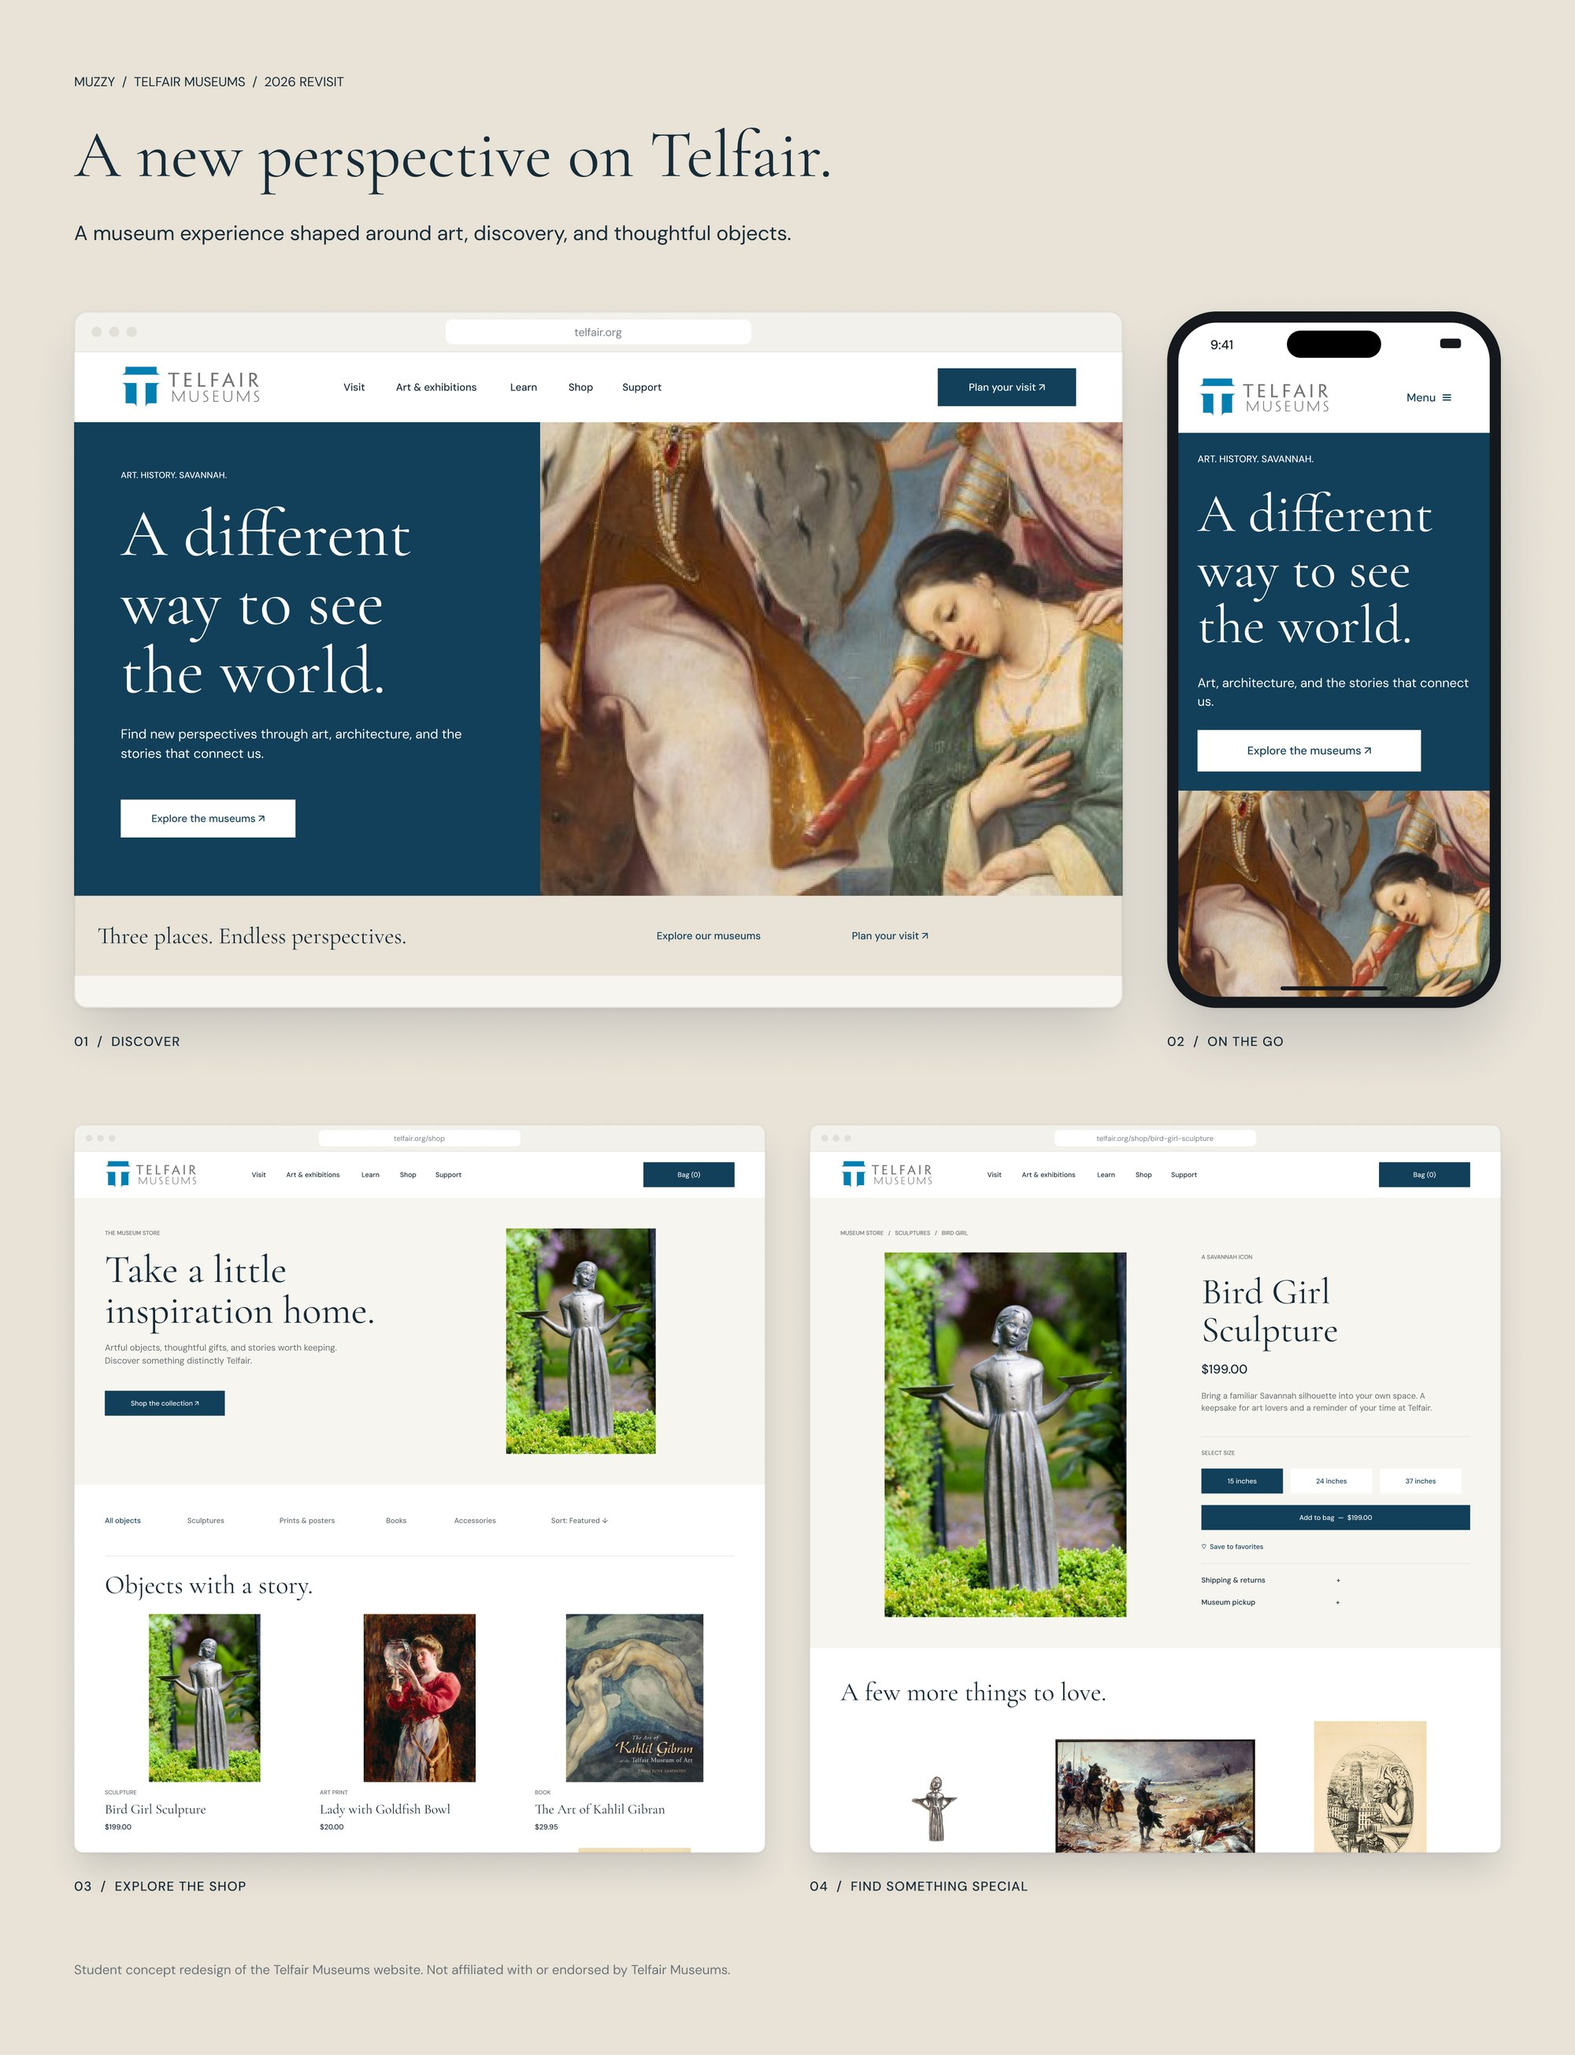
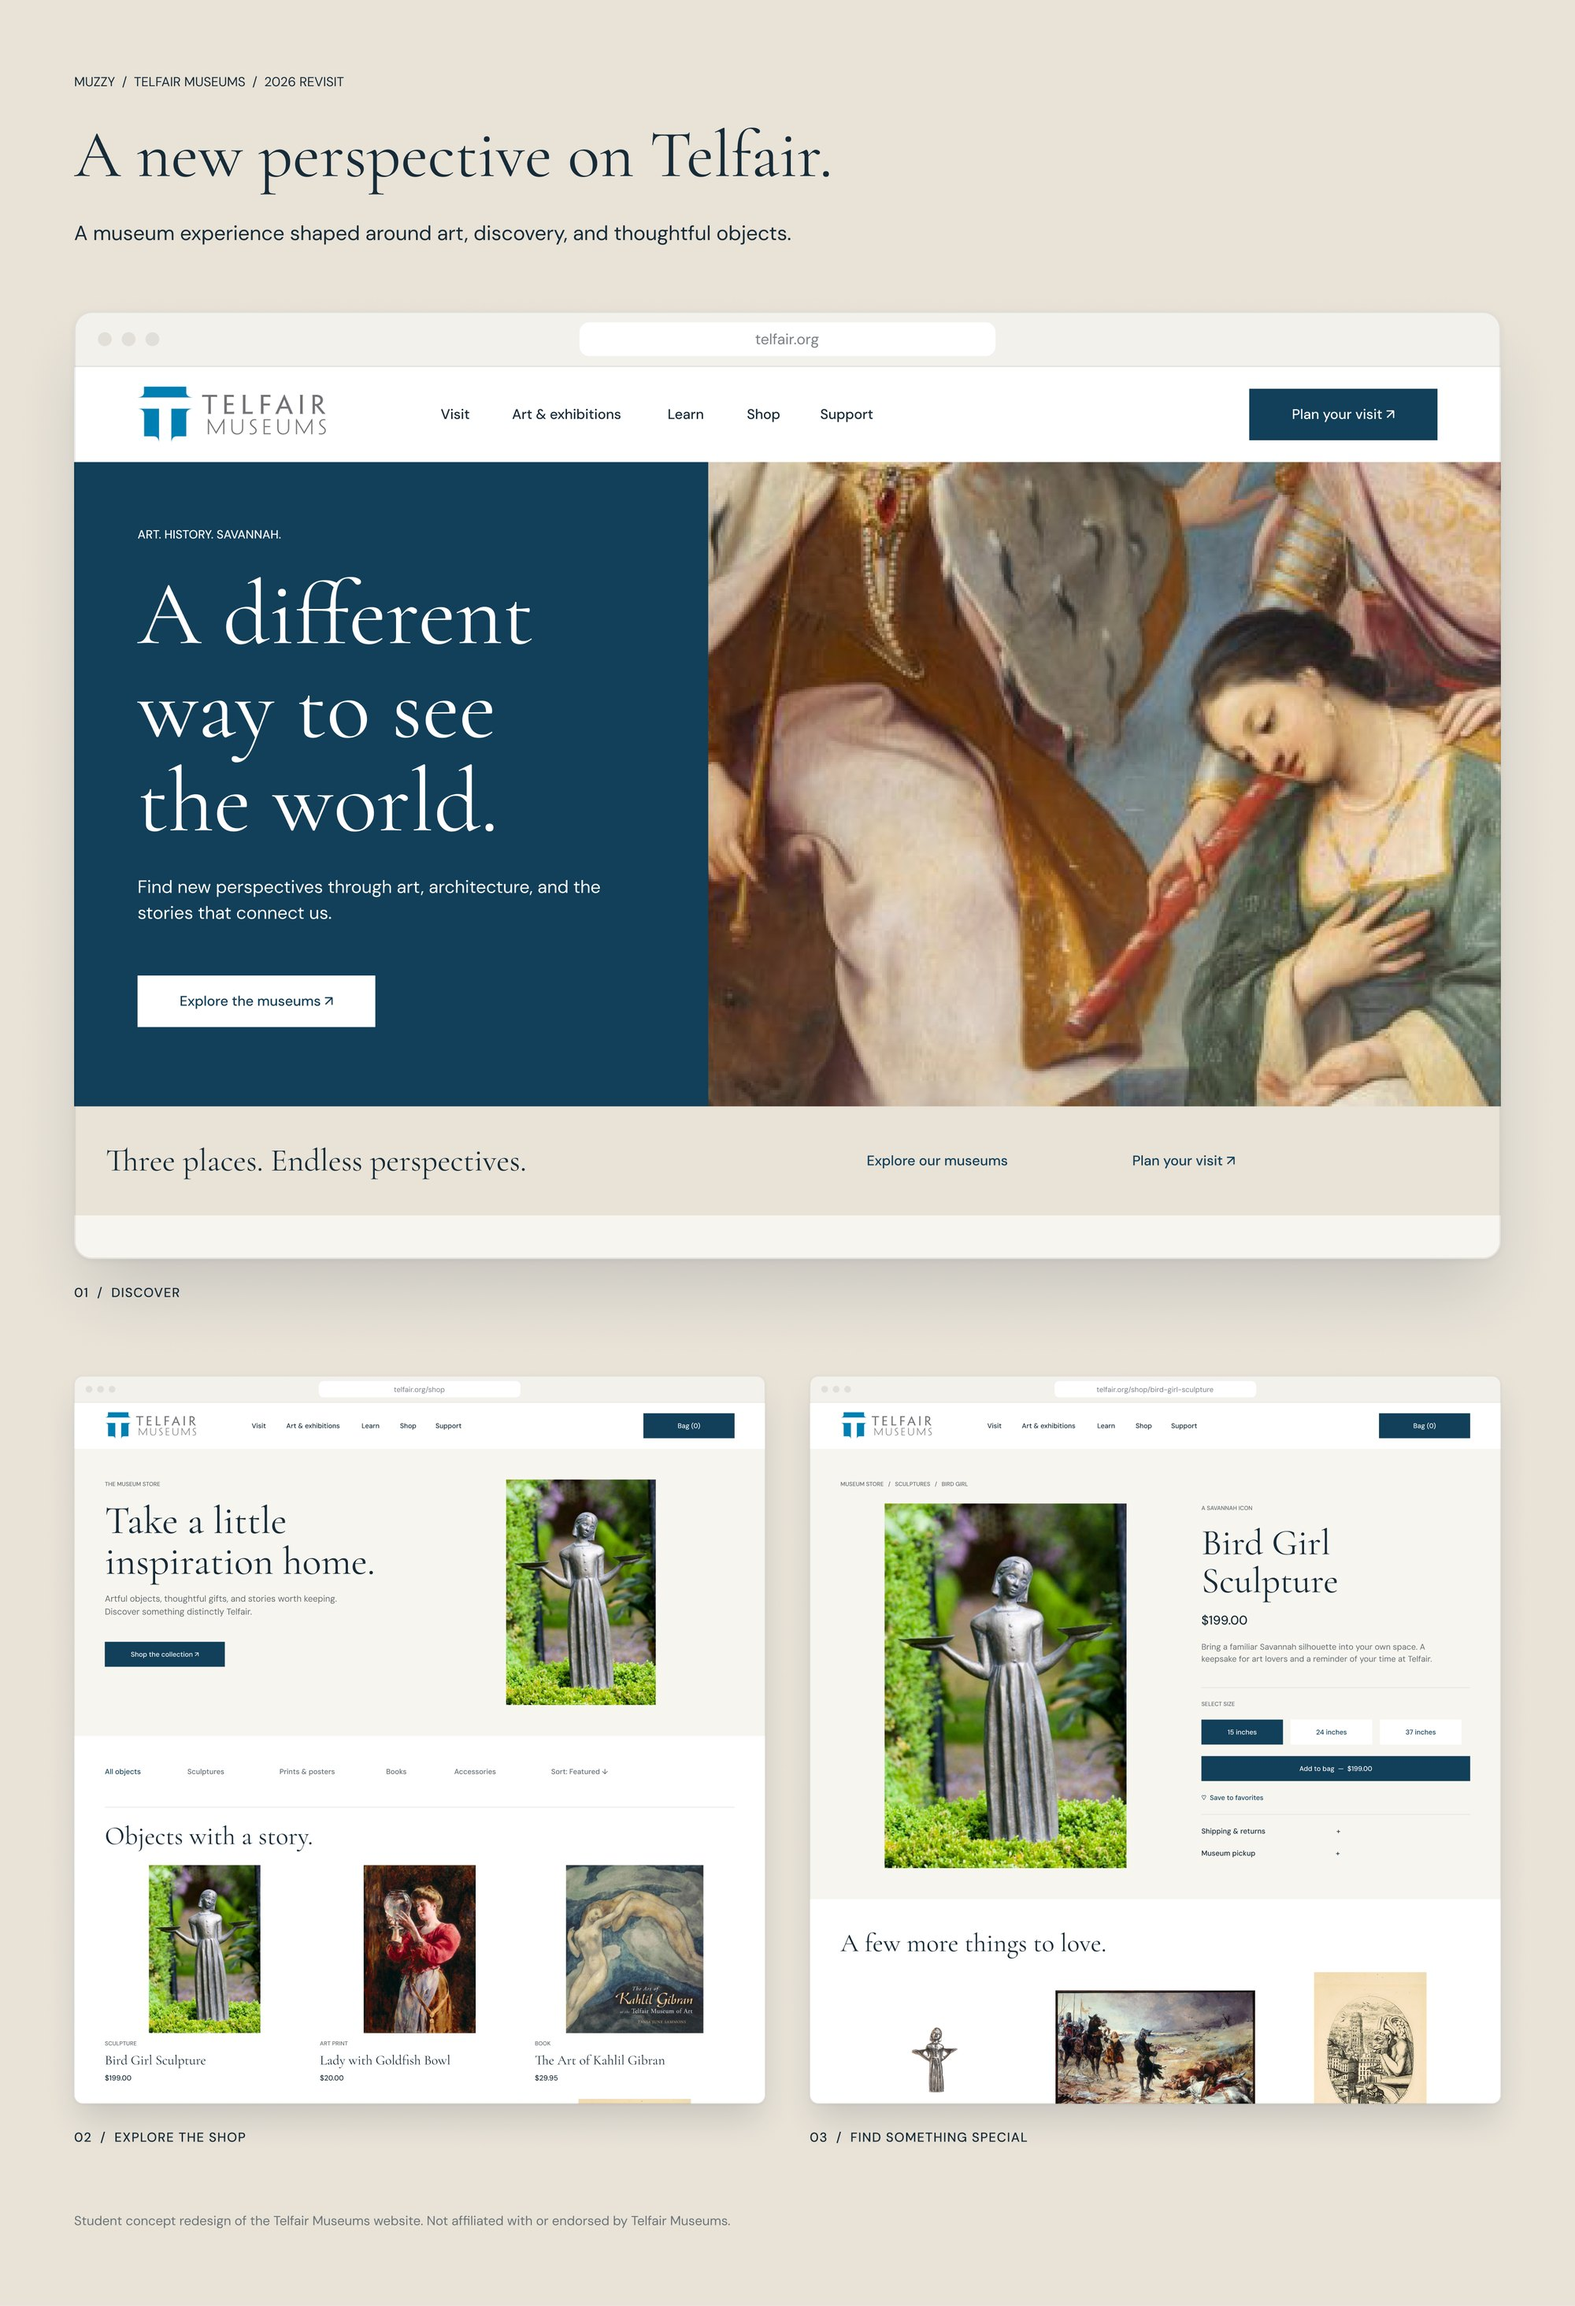
Show Muzzy as a web-only project
Drop the phone mockup from the Muzzy board and thumbnail, and remove
mobile mentions from the copy.

Claude-Session: https://claude.ai/code/session_017dKkdk12sXZhAyrREhtQpg

diff --git a/redesigns.html b/redesigns.html
@@ -107,16 +107,15 @@
         <p class="rd-meta">Website concept for Telfair Museums, Savannah</p>
       </div>
       <div>
-        <p>Muzzy is a website concept for Telfair Museums. I refreshed the homepage, the shop and a product page with a more editorial look built around the art, and designed a mobile version of the homepage.</p>
+        <p>Muzzy is a website concept for Telfair Museums. It was designed for the web, so I refreshed the homepage, the shop and a product page with a more editorial look built around the art.</p>
         <ul>
           <li>Editorial layout that lets the art lead</li>
           <li>Simpler shop with clearer product cards</li>
           <li>Cleaner product page with sizes and add to bag</li>
-          <li>Mobile homepage</li>
         </ul>
       </div>
     </div>
-    <a class="rd-board" href="images/redesigns/muzzy-2026.jpg" target="_blank" rel="noopener"><img src="images/redesigns/muzzy-2026.jpg" alt="Muzzy 2026 redesign: Telfair Museums homepage, shop and product page in browser windows, and the mobile homepage on a phone" width="2000" height="2608" loading="lazy"></a>
+    <a class="rd-board" href="images/redesigns/muzzy-2026.jpg" target="_blank" rel="noopener"><img src="images/redesigns/muzzy-2026.jpg" alt="Muzzy 2026 redesign: Telfair Museums homepage, shop and product page in browser windows" width="2000" height="2927" loading="lazy"></a>
     <p class="rd-note">Student concept. Not affiliated with or endorsed by Telfair Museums.</p>
   </section>
 

diff --git a/index.html b/index.html
@@ -289,10 +289,10 @@ footer{padding:44px 0 60px;display:flex;justify-content:space-between;font-famil
       <p>A calmer app with clearer energy insights.</p>
     </a>
     <a class="redo-card" href="/redesigns#muzzy">
-      <div class="redo-img"><img src="images/redesigns/muzzy-2026-thumb.jpg" alt="Muzzy museum website 2026 redesign on desktop and mobile" loading="lazy" width="1200" height="750"></div>
+      <div class="redo-img"><img src="images/redesigns/muzzy-2026-thumb.jpg" alt="Muzzy museum website 2026 redesign in a browser" loading="lazy" width="1200" height="750"></div>
       <span class="lab">Website</span>
       <h4>Muzzy</h4>
-      <p>A more editorial museum site, desktop and mobile.</p>
+      <p>A more editorial museum website.</p>
     </a>
   </div>
   <a class="pill-l redo-all rev" href="/redesigns">See all the new snapshots &rarr;</a>
